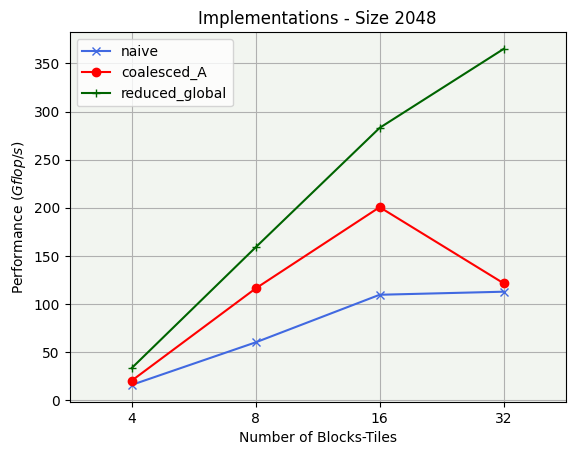
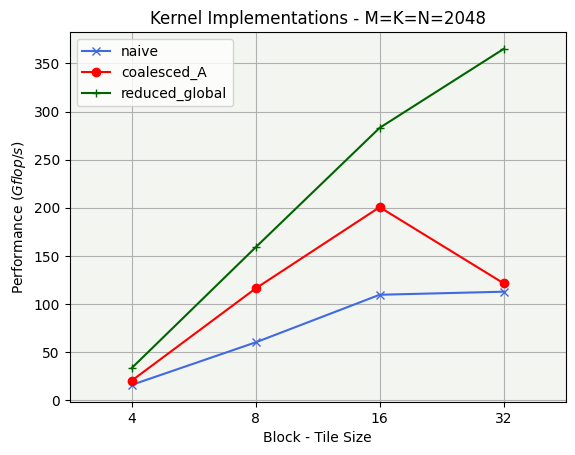
Change axis-labels names

Changed region(s): [[0.2661, 0.0, 0.8574, 0.0615], [0.4139, 0.9538, 0.7096, 0.9846]]

diff --git a/4th_exec/dmm-skeleton/plot_1.py b/4th_exec/dmm-skeleton/plot_1.py
@@ -53,7 +53,7 @@ x_ticks = np.arange(0, len(x_Axis), 1)
 fig, ax = plt.subplots()
 ax.grid(True)
 ax.set_facecolor('#f2f5f0')
-ax.set_xlabel("Number of Blocks-Tiles")
+ax.set_xlabel("Block - Tile Size")
 ax.set_ylabel("Performance ($Gflop/s$)")
 ax.set_xlim(-0.5, len(x_Axis) - 0.5)
 ax.xaxis.set_ticks(x_ticks)
@@ -66,6 +66,6 @@ for implem, perform in performances.items():
     i += 1
 ax.legend(frameon=True)
 # plt.title("Implementation " + implem + " - Size "+str(dimension))
-plt.title("Implementations - Size "+str(dimension))
+plt.title("Kernel Implementations - M=K=N="+str(dimension))
 # plt.savefig("plot_1_"+size+"_"+implem+".png", bbox_inches="tight")
 plt.savefig("plot_1.png", bbox_inches="tight")
